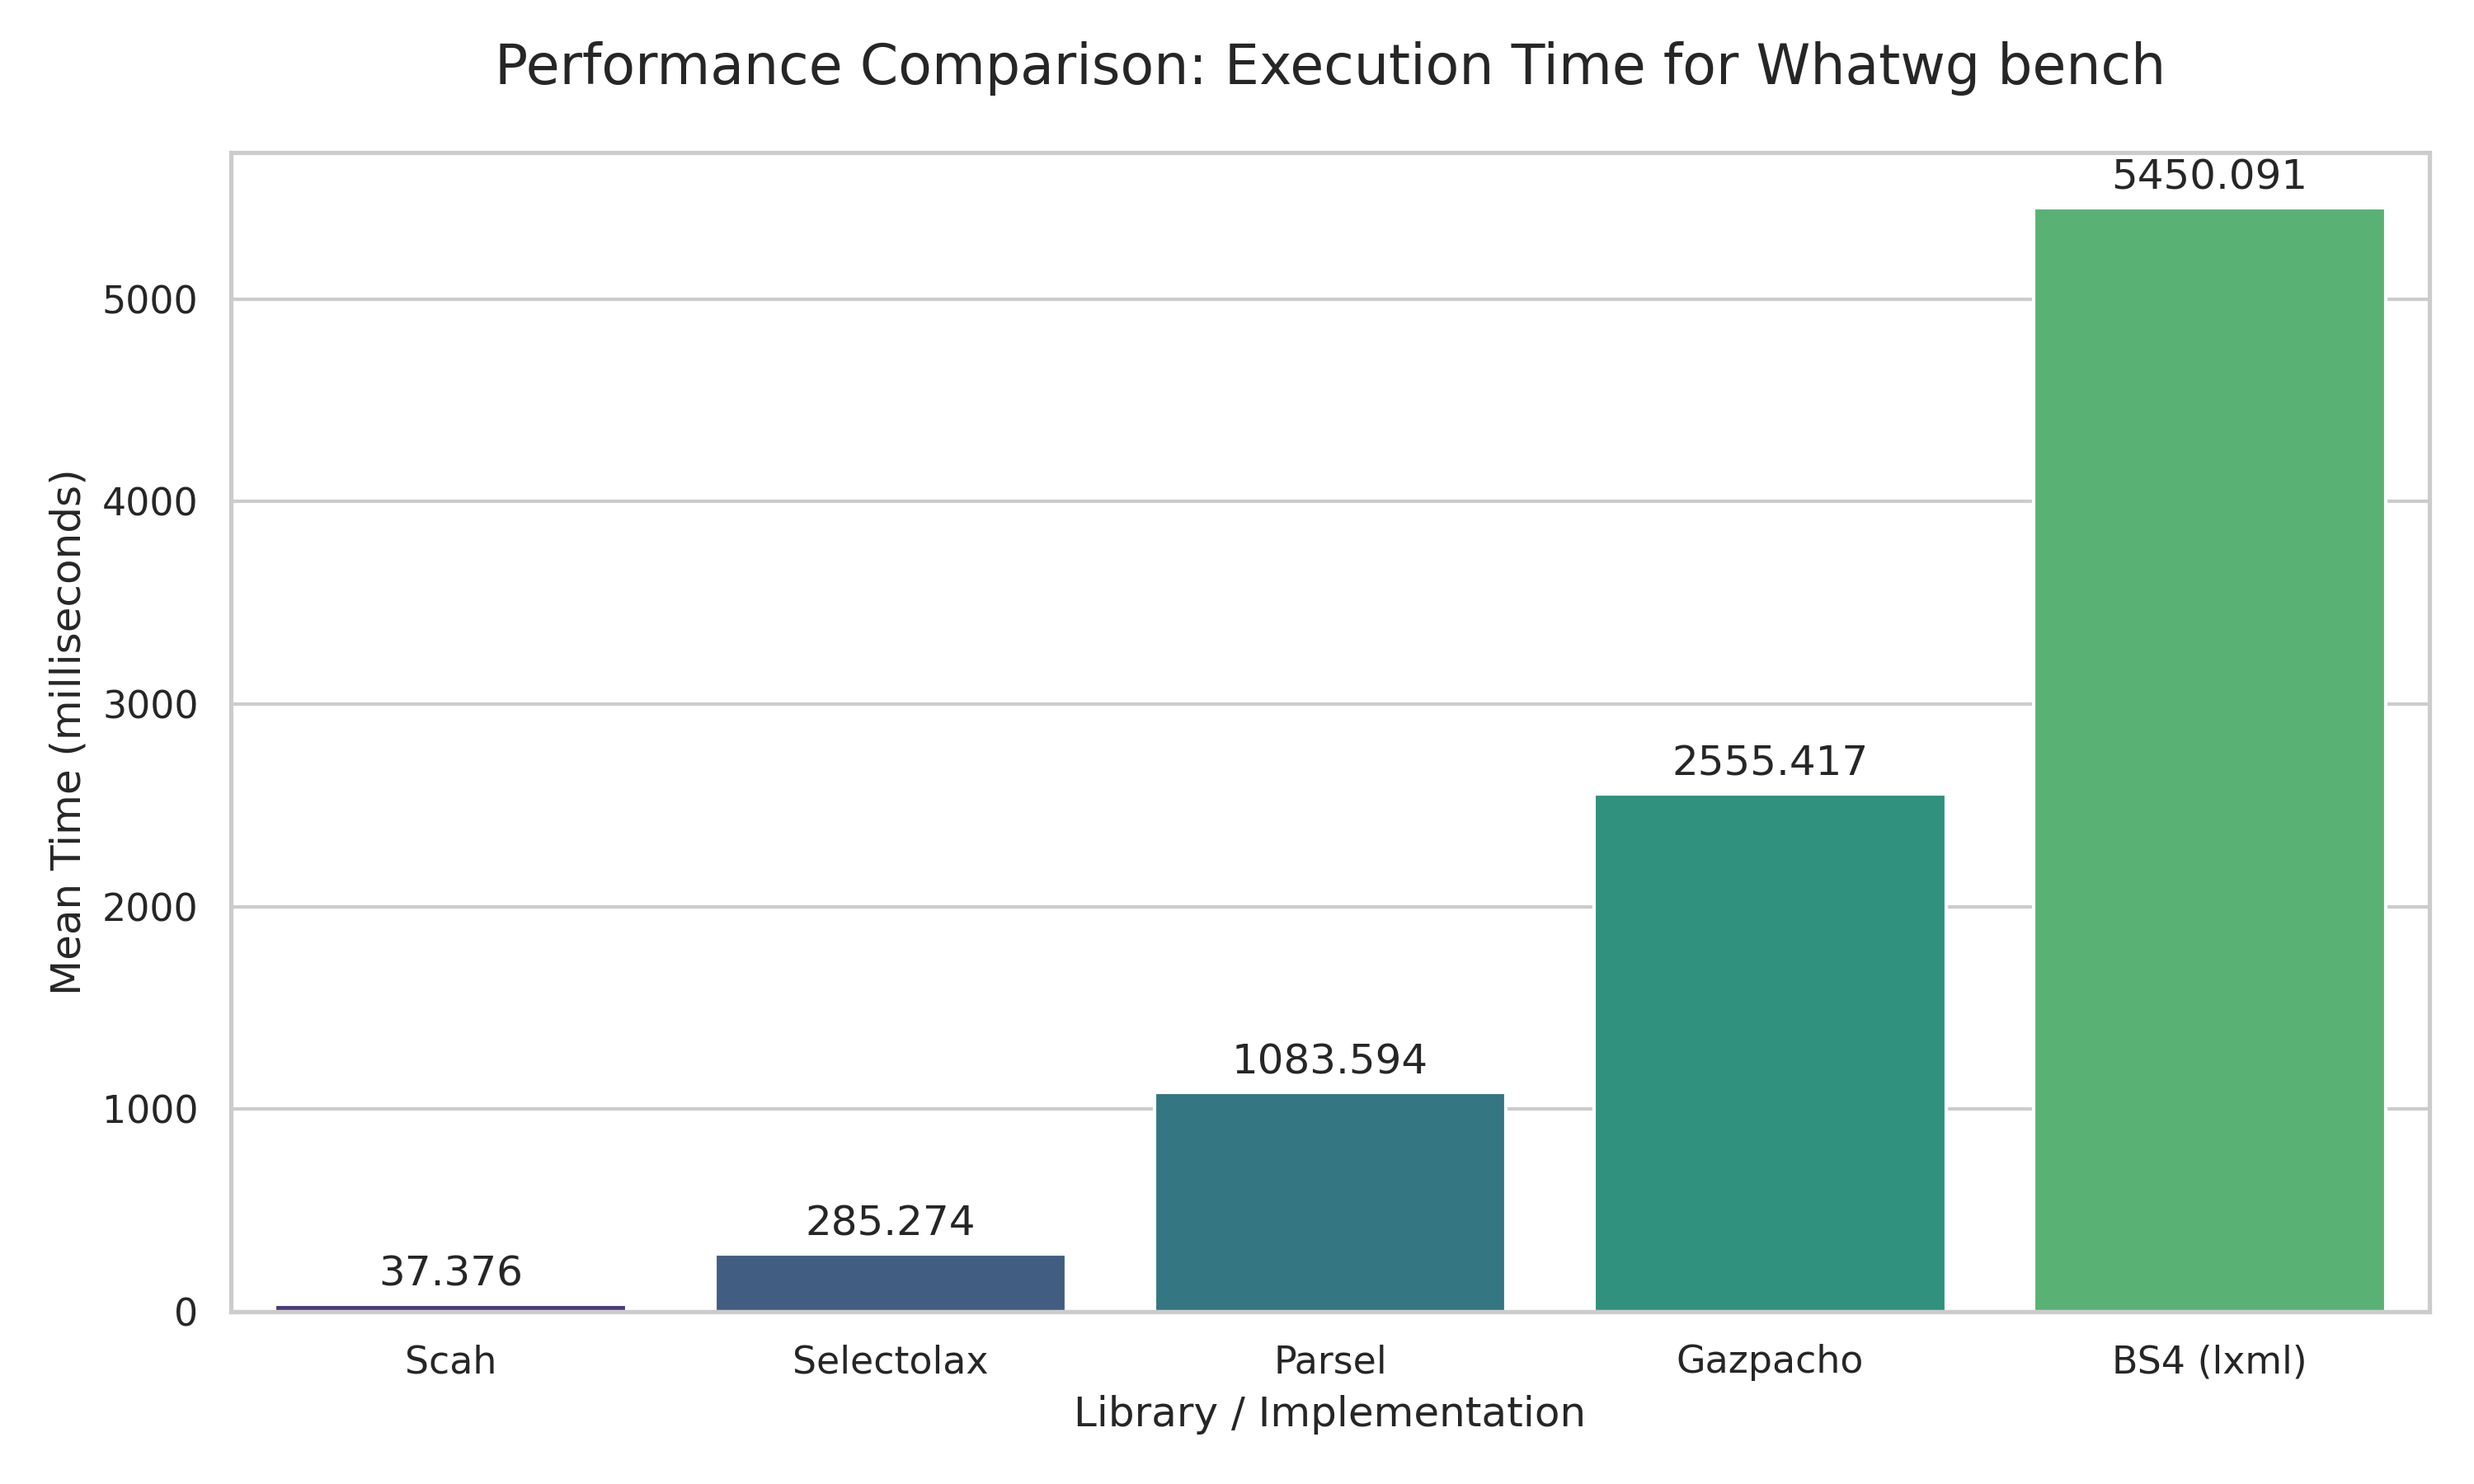
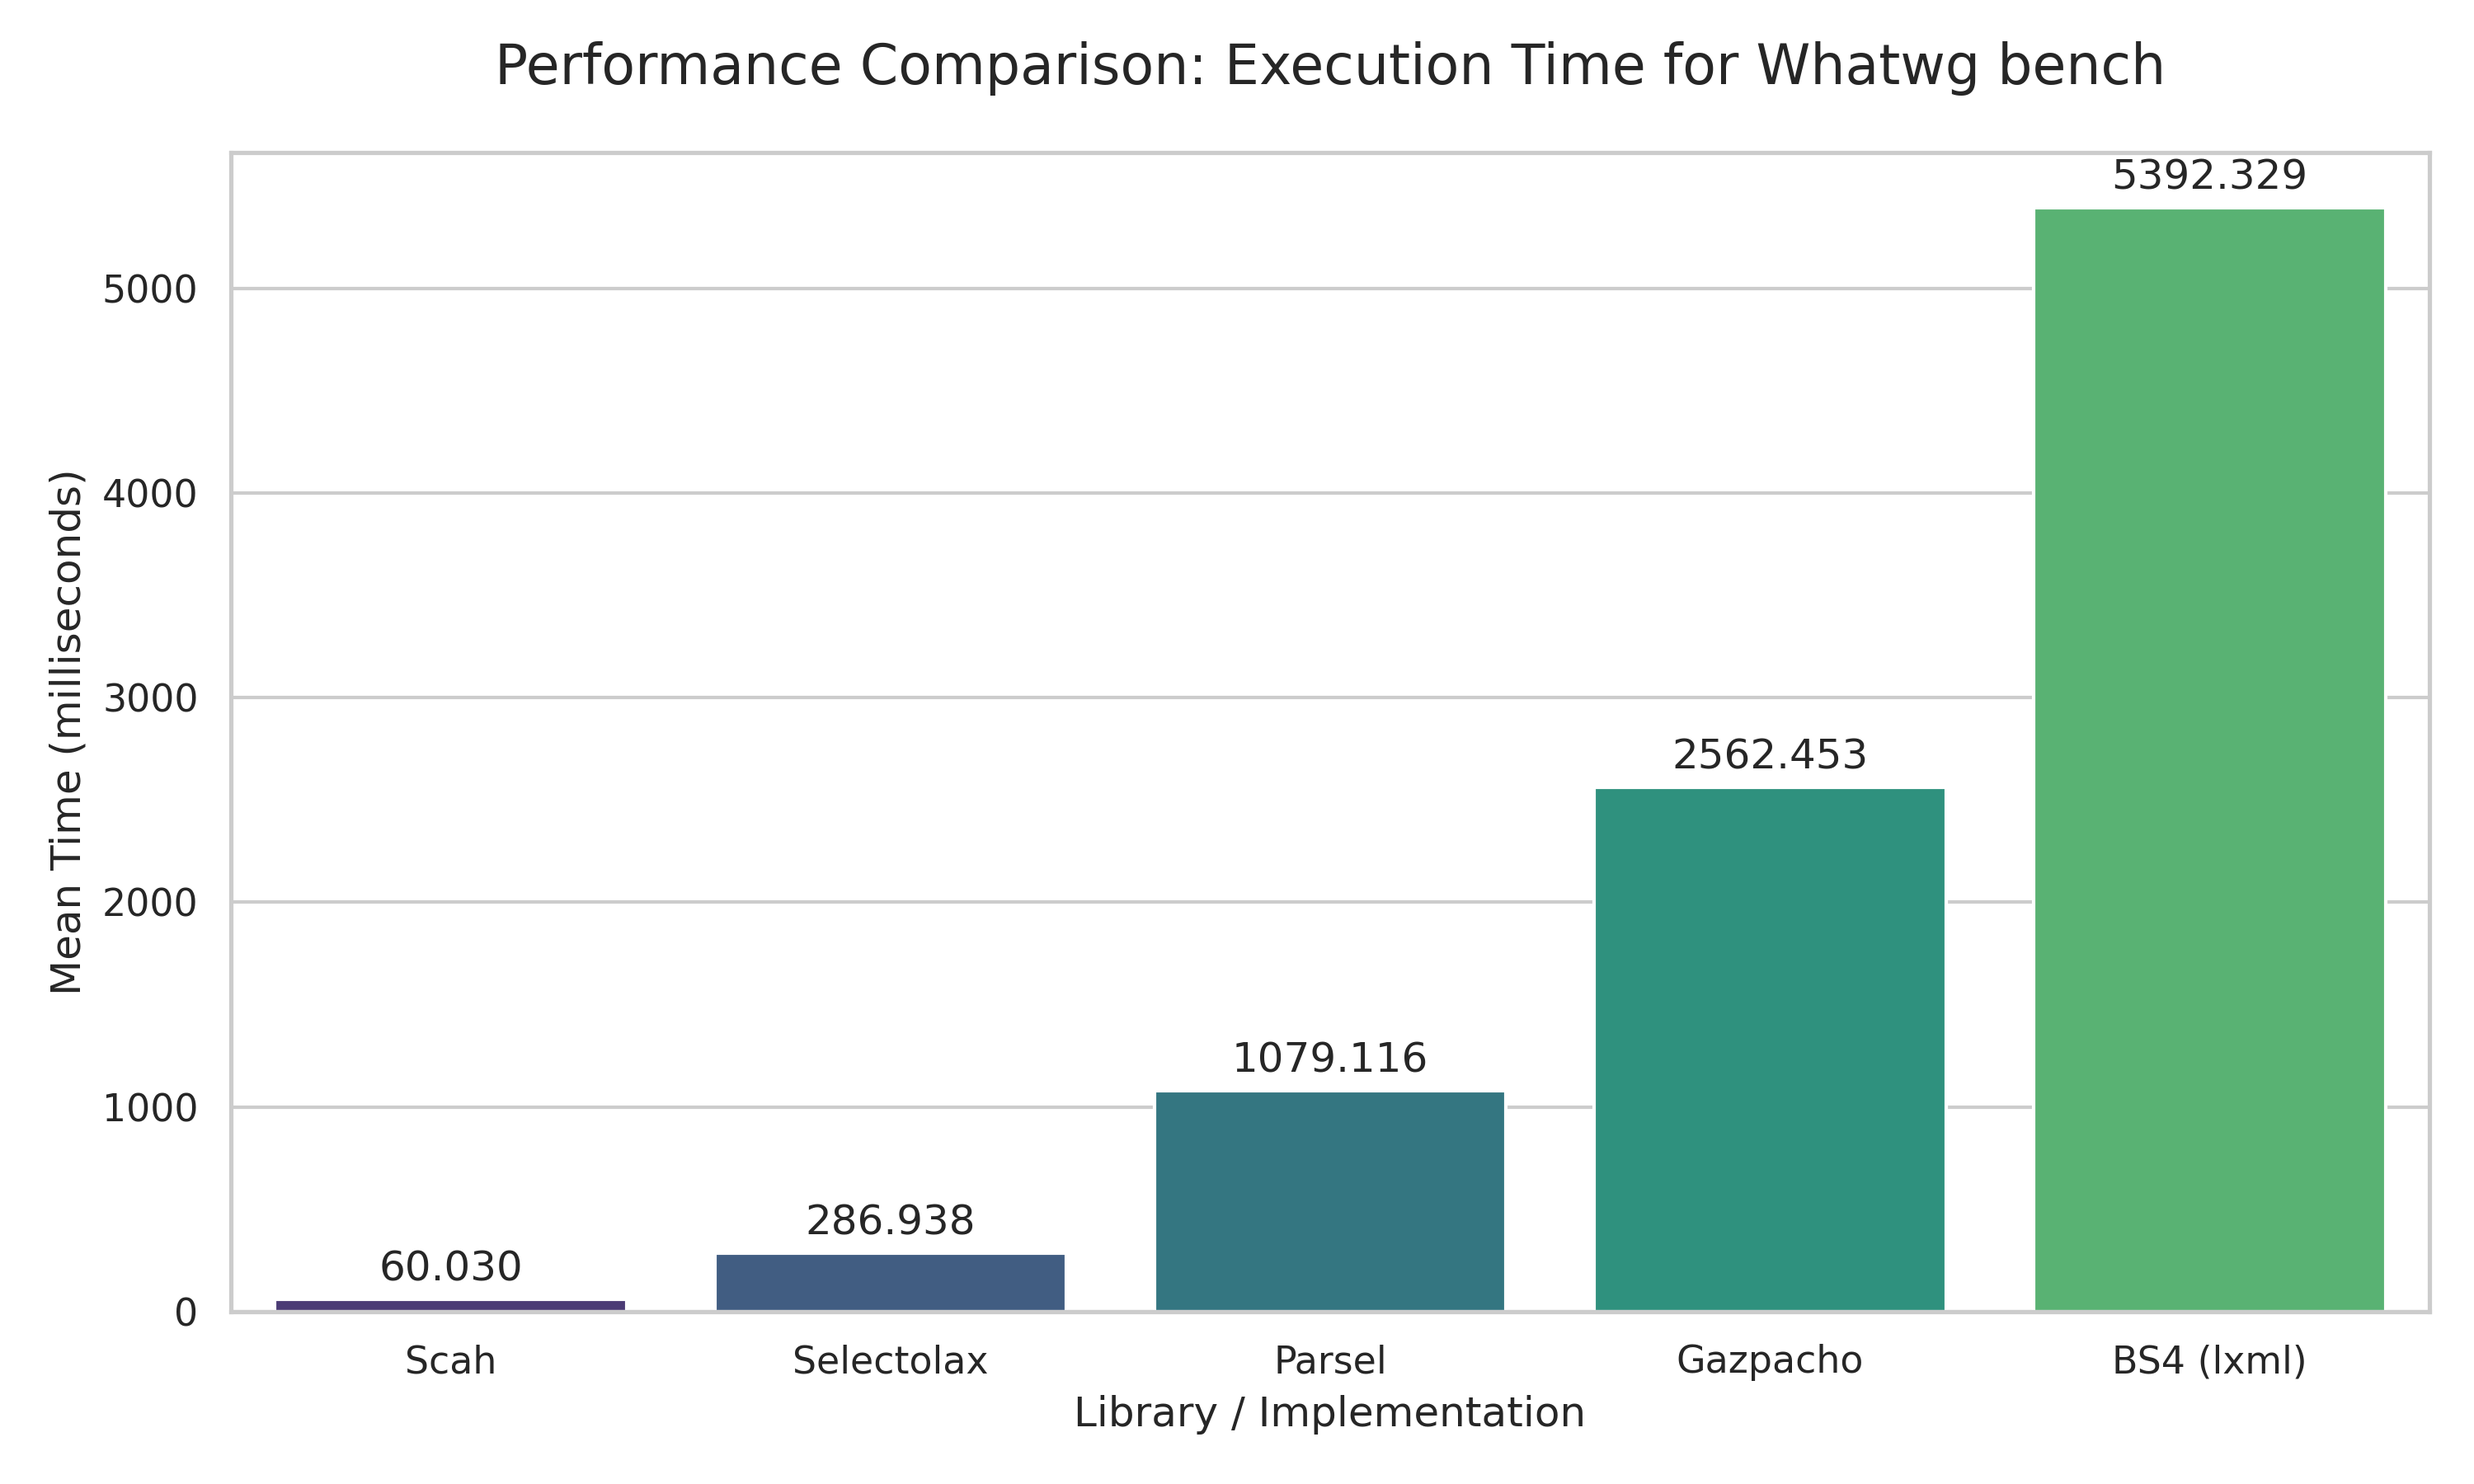
sad ! Good thing it handles HTML soup, but sad !

diff --git a/benches/README.md b/benches/README.md
@@ -7,31 +7,31 @@
 
 | Library | Mean (ms) |
 | :--- | :--- |
-| scah | **0.022270** 
-| tl | **0.046285** 
-| lol_html | **0.050179** 
-| lexbor | **0.110079** 
-| scraper | **0.290444** 
+| scah | **0.033199** 
+| tl | **0.044361** 
+| lol_html | **0.048039** 
+| lexbor | **0.117052** 
+| scraper | **0.287948** 
 
 ### Input Size: 1000 Elements
 
 | Library | Mean (ms) |
 | :--- | :--- |
-| scah | **0.212090** 
-| tl | **0.475236** 
-| lol_html | **0.488771** 
-| lexbor | **0.993170** 
-| scraper | **2.915074** 
+| scah | **0.326177** 
+| tl | **0.457205** 
+| lol_html | **0.470112** 
+| lexbor | **1.029022** 
+| scraper | **2.900244** 
 
 ### Input Size: 10000 Elements
 
 | Library | Mean (ms) |
 | :--- | :--- |
-| scah | **2.121494** 
-| tl | **4.623117** 
-| lol_html | **4.849870** 
-| lexbor | **10.397207** 
-| scraper | **29.610598** 
+| scah | **3.552618** 
+| tl | **4.446345** 
+| lol_html | **4.661869** 
+| lexbor | **11.075140** 
+| scraper | **28.933025** 
 
 ---
 
@@ -41,31 +41,30 @@
 
 | Library | Mean (ms) |
 | :--- | :--- |
-| scah | **0.000509** 
-| lol_html | **0.001141** 
-| tl | **0.020902** 
-| lexbor | **0.086477** 
-| scraper | **0.256770** 
+| scah | **0.000596** 
+| lol_html | **0.001129** 
+| tl | **0.020601** 
+| lexbor | **0.092543** 
+| scraper | **0.255089** 
 
 ### Input Size: 1000 Elements
 
 | Library | Mean (ms) |
 | :--- | :--- |
-| scah | **0.000530** 
-| lol_html | **0.001141** 
-| tl | **0.225558** 
-| lexbor | **0.711178** 
-| scraper | **2.556799** 
+| scah | **0.000597** 
+| lol_html | **0.001124** 
+| tl | **0.224714** 
+| lexbor | **0.786608** 
+| scraper | **2.553527** 
 
 ### Input Size: 10000 Elements
 
 | Library | Mean (ms) |
 | :--- | :--- |
-| scah | **0.000554** 
-| lol_html | **0.001136** 
-| tl | **2.164622** 
-| lexbor | **7.494570** 
-| scraper | **25.462792** 
+| scah | **0.000589** 
+| lol_html | **0.001129** 
+| tl | **2.141791** 
+| lexbor | **8.308555** 
+| scraper | **25.525014** 
 
 ---
-

diff --git a/README.md b/README.md
@@ -169,7 +169,7 @@ query = Query.all("main > section", Save.all())
 store = parse(html, [query])
 ```
 
-#### Benchmark's
+#### Benchmarks
 ##### Real Html BenchMark ([html.spec.whatwg.org](https://html.spec.whatwg.org/)) (select all `a` tags):
 ![WhatWg Html Spec BenchMark](https://raw.githubusercontent.com/zacharyvmm/scah/main/crates/bindings/scah-python/benches/images/whatwg.png)
 
@@ -193,3 +193,7 @@ const query = Query.all('main > section', { innerHtml: true, textContent: true }
 
 const store = parse(html, [query]);
 ```
+
+#### Benchmarks
+Synthetic Html BenchMark (select all 5_000 `a` tags):
+![Synthetic Html BenchMark](https://raw.githubusercontent.com/zacharyvmm/scah/main/crates/bindings/scah-node/benchmark/images/synthetic.png)

diff --git a/crates/bindings/scah-python/README.md b/crates/bindings/scah-python/README.md
@@ -6,10 +6,3 @@ Real Html BenchMark ([html.spec.whatwg.org](https://html.spec.whatwg.org/)) (sel
 
 Synthetic Html BenchMark (select all `a` tags):
 ![Synthetic Html BenchMark](https://raw.githubusercontent.com/zacharyvmm/scah/main/crates/bindings/scah-python/benches/images/synthetic.png)
-
-### Run benchmarks
-```bash
-uv venv
-source .venv/bin/activate
-uv run --all-extras poe bench
-```

diff --git a/crates/bindings/scah-node/README.md b/crates/bindings/scah-node/README.md
@@ -3,3 +3,8 @@
 ```bash
 npm install scah@npm:@zacharymm/scah
 ```
+
+## Benchmark
+
+Synthetic Html BenchMark (select all 5_000 `a` tags):
+![Synthetic Html BenchMark](https://raw.githubusercontent.com/zacharyvmm/scah/main/crates/bindings/scah-node/benchmark/images/synthetic.png)
